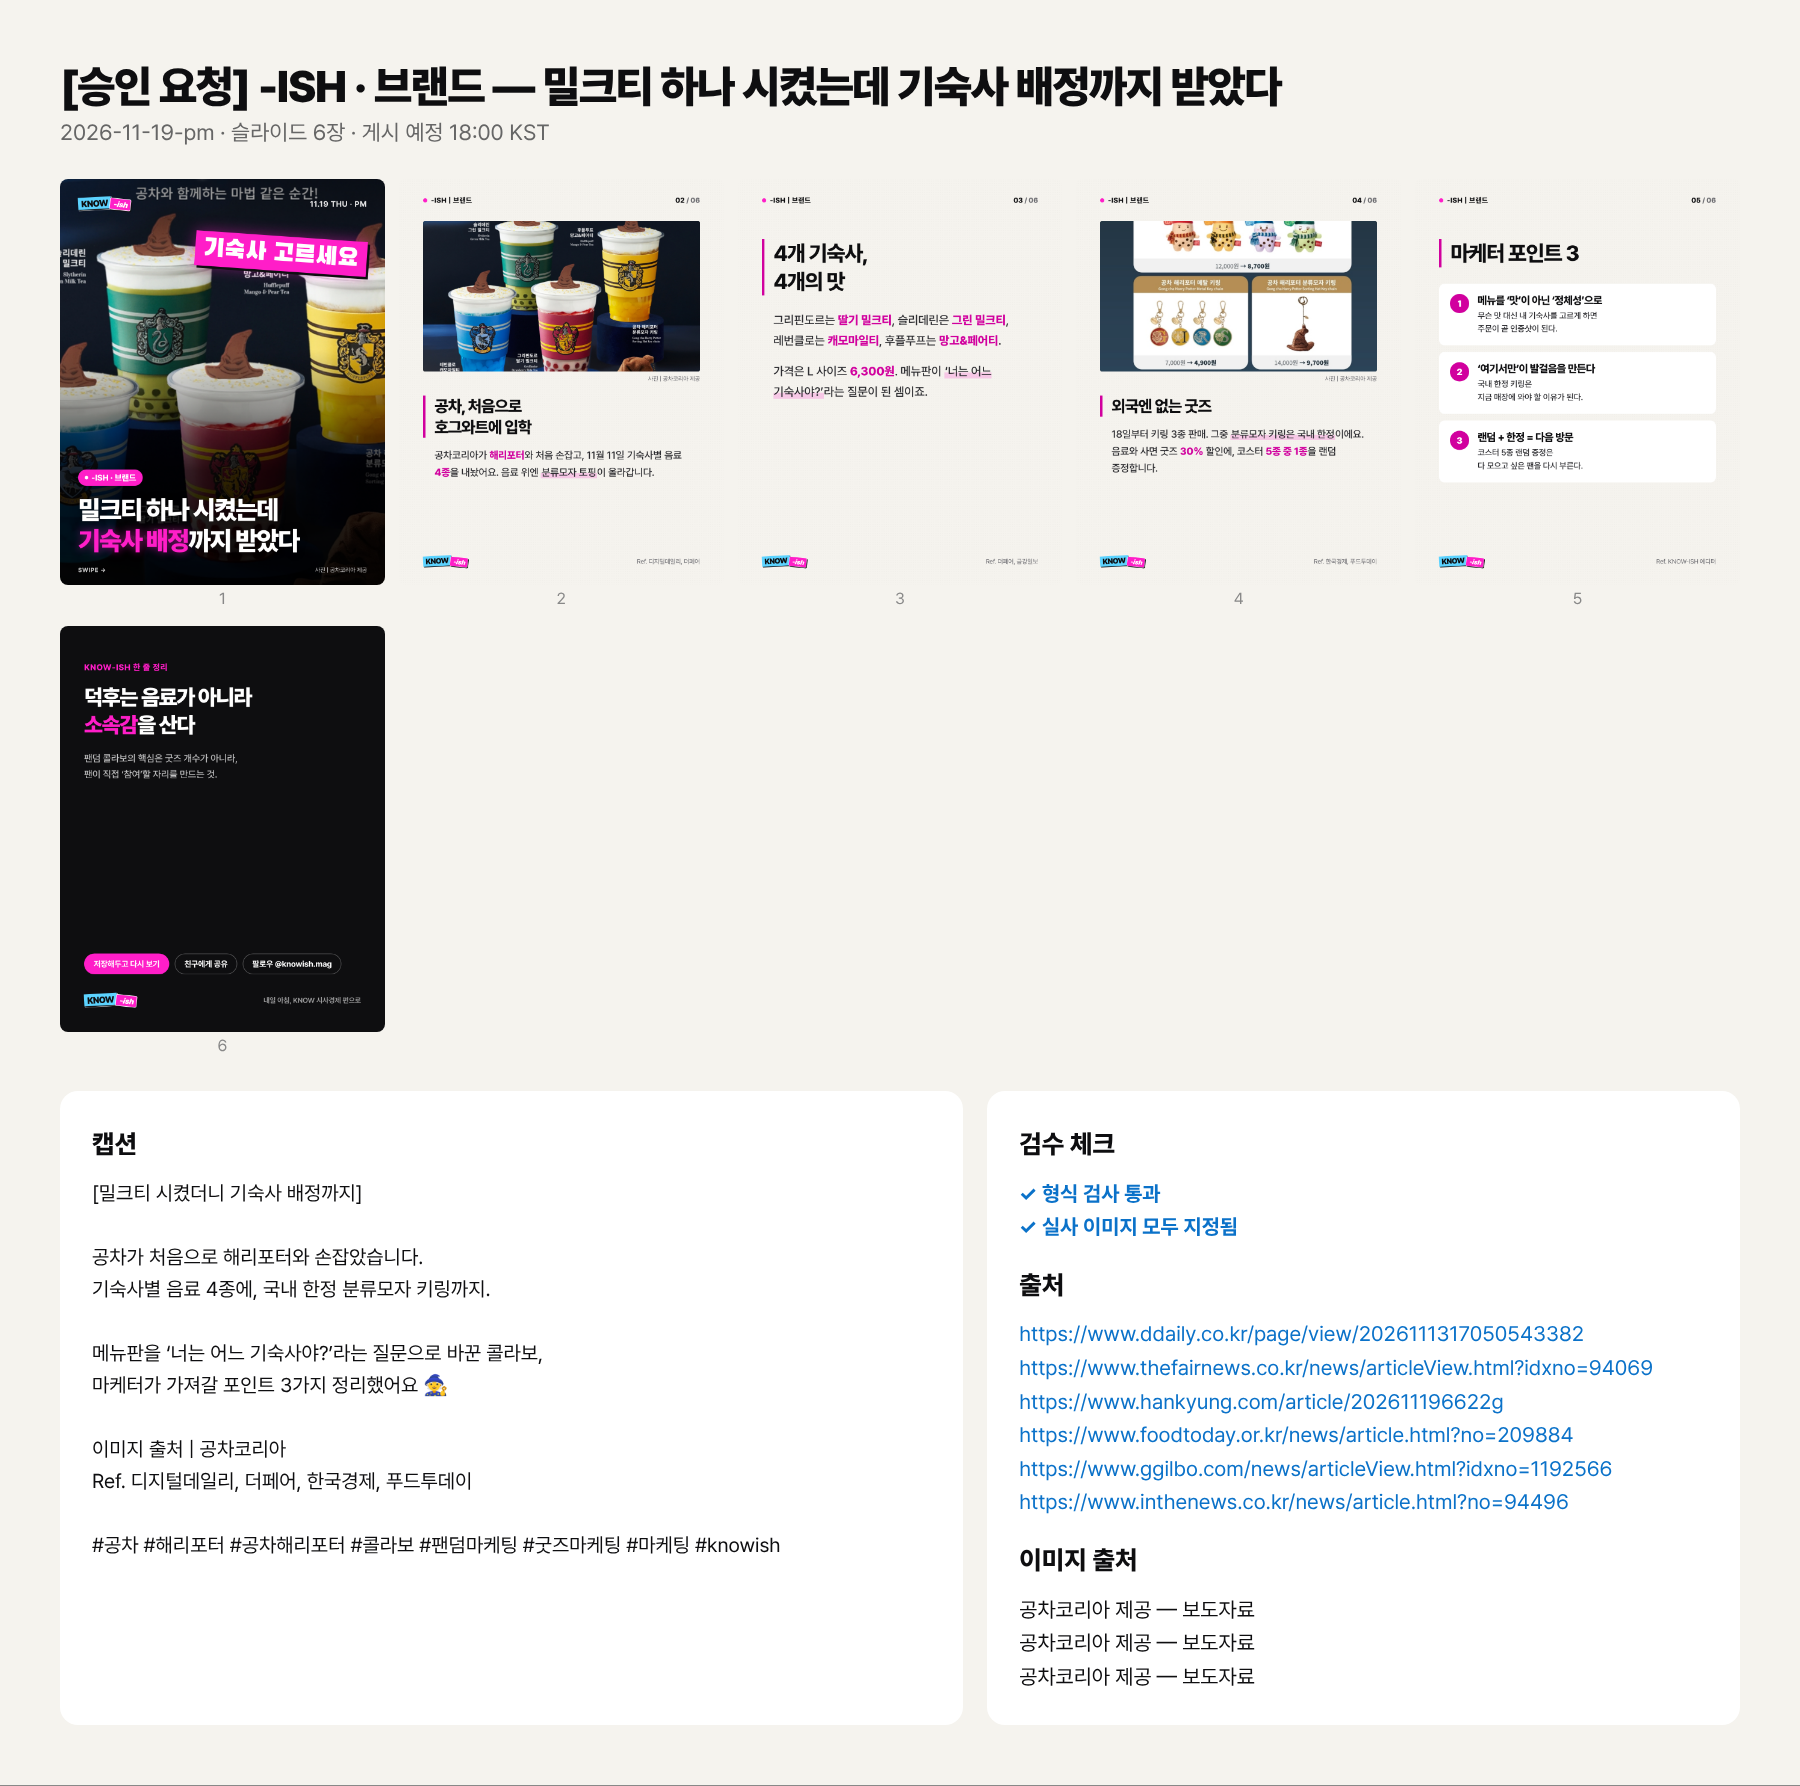
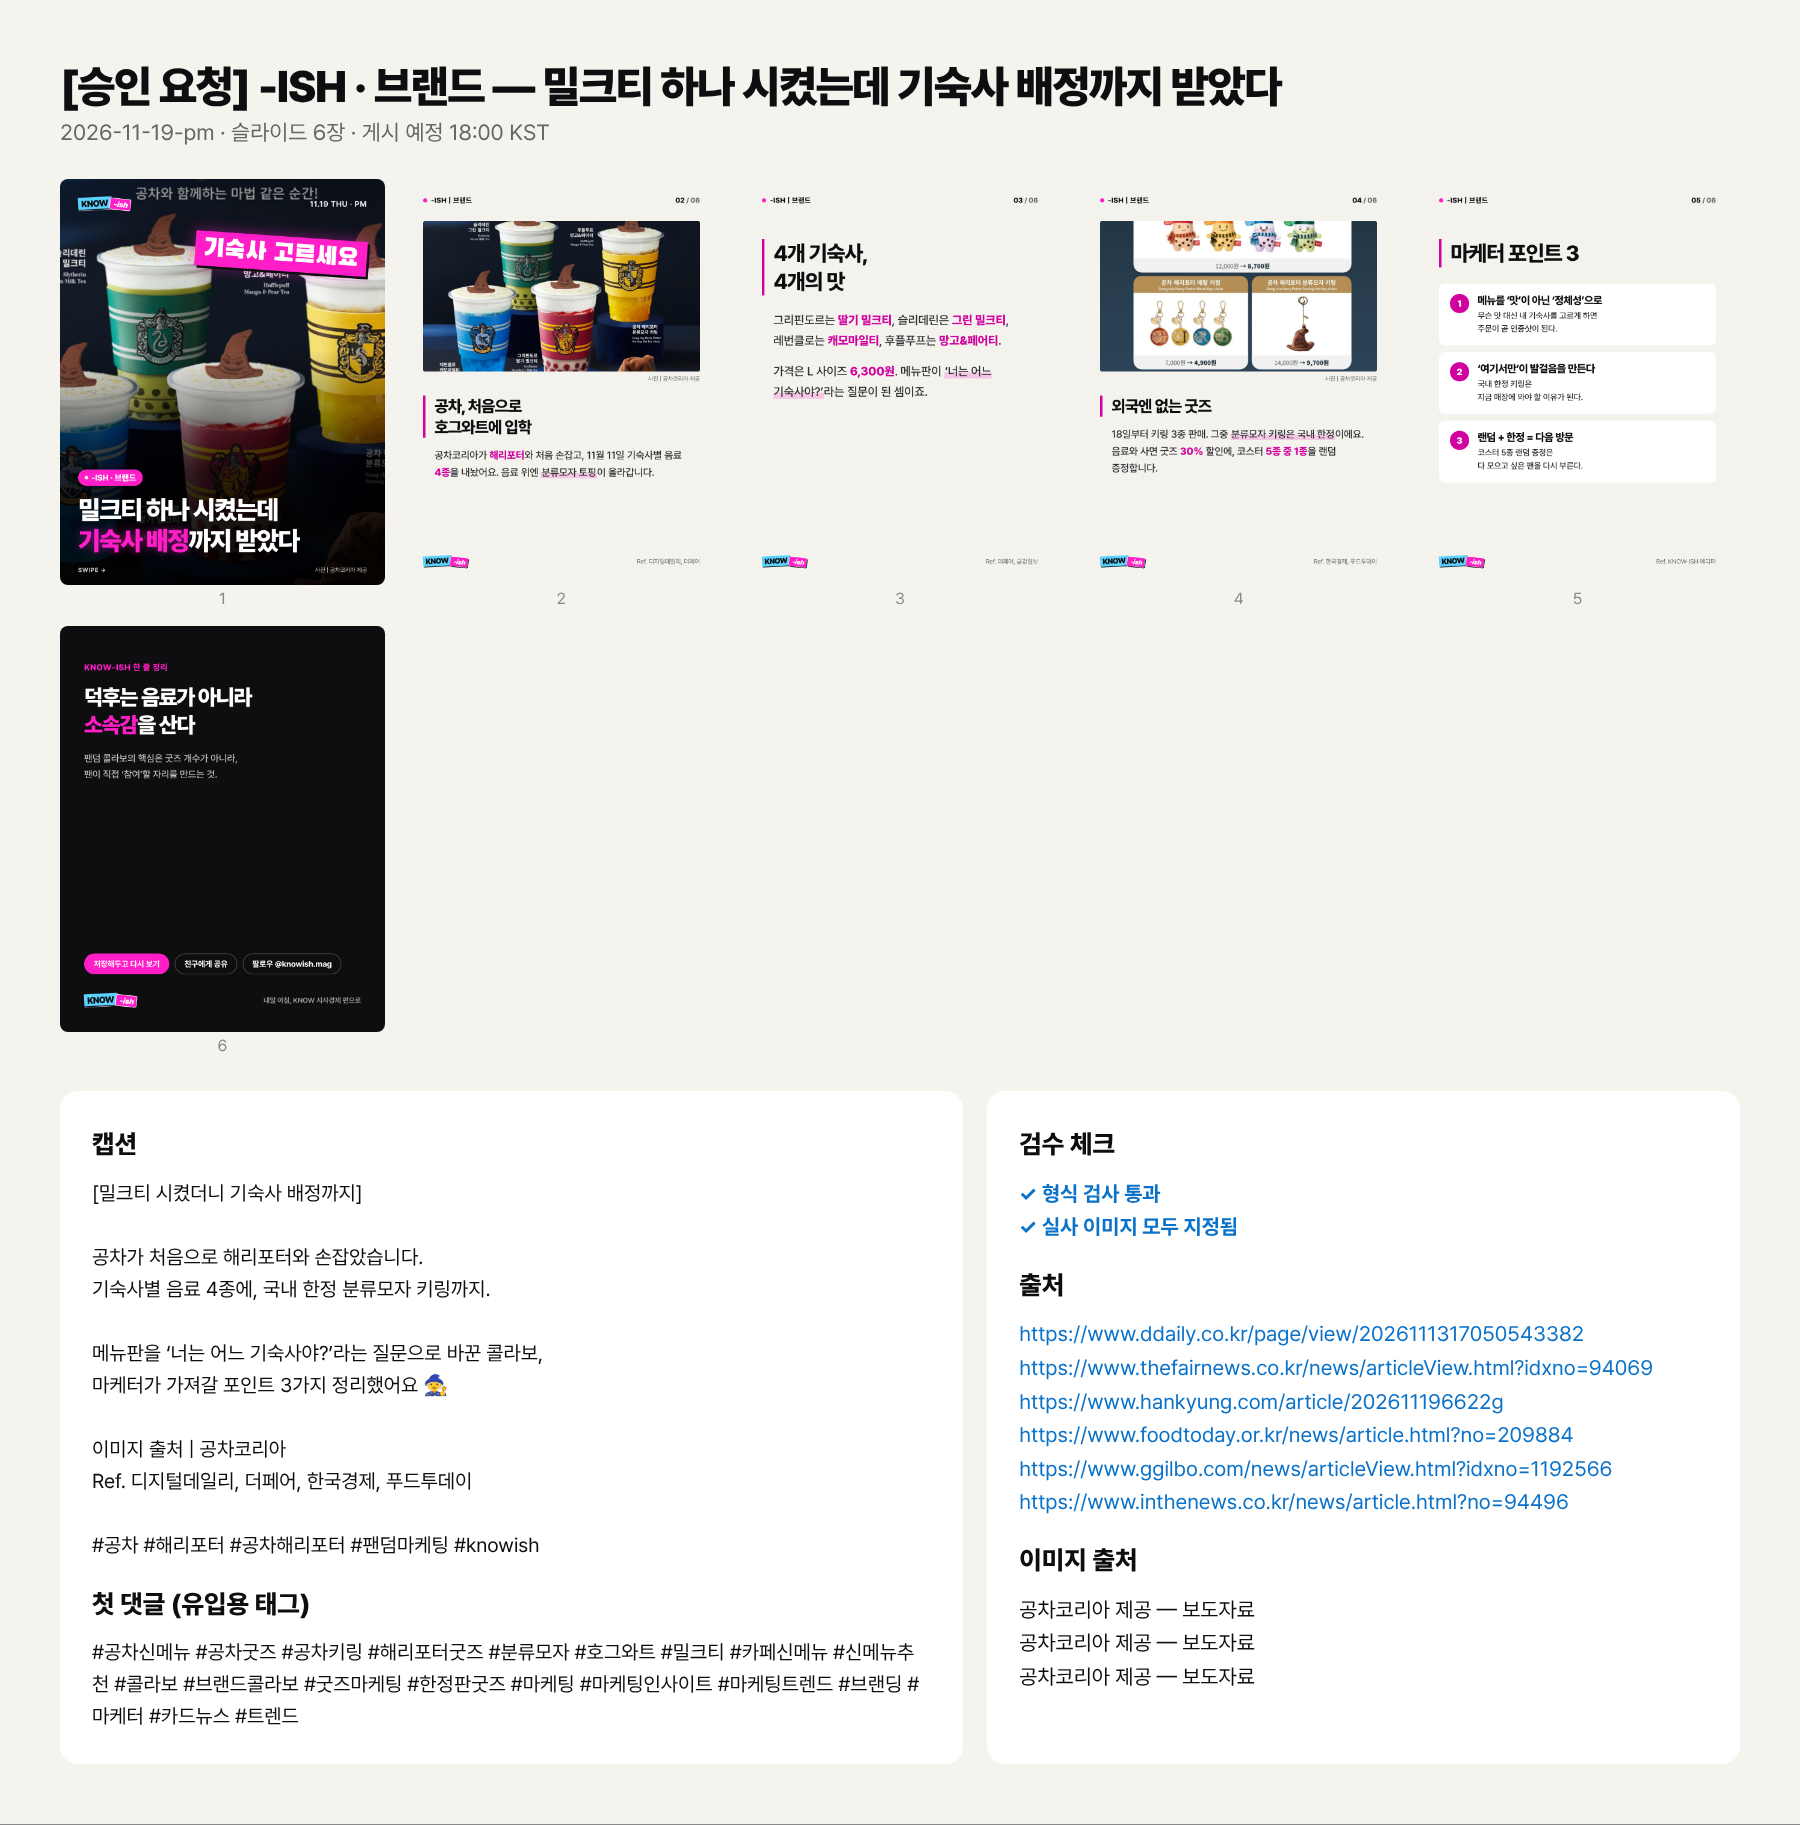
해시태그 분리: 캡션 5개 + 첫 댓글 유입용 태그(commentTags), 검사·빌드·게시·런북 반영
Claude-Session: https://claude.ai/code/session_019qCDgtKUUxWTJuWU3cPXKC

diff --git a/onoff/AUTOMATION.md b/onoff/AUTOMATION.md
@@ -38,7 +38,11 @@
 - 표지(`cover`): 스티커 8자 이내, 제목 2줄(최대 3줄), 핵심 단어 1개만 `==강조==`. 2EZ식 후킹.
 - 본문: MOT·LUX식. 한 장에 한 메시지. 사진 있는 장 140자, 없는 장 260자 이내. 숫자·고유명사는 `**굵게**`, 핵심 문장은 `==형광펜==`.
 - 마지막 `outro`: "한 줄 정리" — 아는 척할 때 쓸 문장.
-- `caption`: 첫 줄 `[제목]`, 3~5줄 요약, 이미지·자료 출처, 해시태그 5~8개(마지막에 `#knowish`).
+- `caption`: 첫 줄 `[제목]`, 3~5줄 요약, 이미지·자료 출처, **해시태그는 정확히 5개**(브랜드/주제 핵심 3~4개 + 마지막 `#knowish`).
+- `commentTags`: 첫 댓글에 달 **유입용(SEO) 태그 15~20개** 배열. 캡션 태그와 겹치지 않게.
+  - 구성: 주제 세부 키워드 5~7개(브랜드·제품·인물·사건명) + 관련 검색어 4~6개(사람들이 실제 검색할 말, 예: `#카페신메뉴`, `#금리인상`) + 분야 고정 태그 5~7개
+  - 분야 고정 태그 — KNOW: `#경제뉴스 #시사 #경제공부 #뉴스요약 #재테크 #카드뉴스 #시사상식` / -ISH: `#마케팅 #마케팅인사이트 #마케팅트렌드 #브랜딩 #마케터 #카드뉴스 #트렌드`
+  - 너무 큰 태그(#일상, #좋아요 등)와 내용과 무관한 인기 태그는 쓰지 않는다.
 - `sources`: 원고의 모든 숫자·주장을 뒷받침하는 링크.
 - `ref`: 본문 장마다 출처 기관/매체명.
 
@@ -87,7 +91,7 @@ node src/build.mjs posts/<id>
   2. `node src/publish.mjs posts/<id> --dry-run` 으로 URL·캡션 확인.
   3. `node src/publish.mjs posts/<id>` 실행.
   4. 결과(permalink)를 커밋·push 하고 사용자에게 알린다.
-- 게시에 필요한 설정이 아직 없으면(아래) 게시는 건너뛰고, `caption.txt` 를 만들어 사용자에게 **수동 업로드용 파일**(slides/01~NN.png + caption.txt)을 보낸다.
+- 게시에 필요한 설정이 아직 없으면(아래) 게시는 건너뛰고, 사용자에게 **수동 업로드용 파일**(slides/01~NN.png + caption.txt + comment.txt)을 보내고, 게시 직후 comment.txt 를 첫 댓글로 달라고 안내한다.
 
 ## 게시에 필요한 설정 (최초 1회)
 - `docs/INSTAGRAM_SETUP.md` 를 따라 비즈니스 계정·토큰·`IG_USER_ID` 준비

diff --git a/onoff/posts/2026-11-19-pm/review.md b/onoff/posts/2026-11-19-pm/review.md
@@ -17,7 +17,12 @@
 이미지 출처 | 공차코리아
 Ref. 디지털데일리, 더페어, 한국경제, 푸드투데이
 
-#공차 #해리포터 #공차해리포터 #콜라보 #팬덤마케팅 #굿즈마케팅 #마케팅 #knowish
+#공차 #해리포터 #공차해리포터 #팬덤마케팅 #knowish
+```
+
+## 첫 댓글 (유입용 태그)
+```
+#공차신메뉴 #공차굿즈 #공차키링 #해리포터굿즈 #분류모자 #호그와트 #밀크티 #카페신메뉴 #신메뉴추천 #콜라보 #브랜드콜라보 #굿즈마케팅 #한정판굿즈 #마케팅 #마케팅인사이트 #마케팅트렌드 #브랜딩 #마케터 #카드뉴스 #트렌드
 ```
 
 ## 출처
